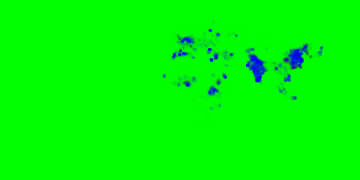
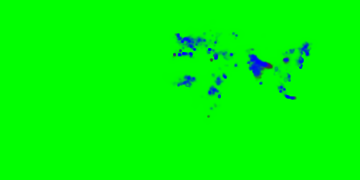
Add simulation speed control and update rendering logic

diff --git a/v-1.0-python/my-react-app/src/components/LiveSim.jsx b/v-1.0-python/my-react-app/src/components/LiveSim.jsx
@@ -7,6 +7,29 @@ import "../CSS/index.css";
 
 const API_BASE_URL = (import.meta.env.VITE_API_BASE_URL || "").replace(/\/$/, "");
 
+function resolveApiBase() {
+    if (API_BASE_URL) return API_BASE_URL;
+    // In Vite dev, backend is proxied under /backend_2.0.
+    if (typeof window !== "undefined" && window.location.port === "5173") {
+        return "/backend_2.0";
+    }
+    return "";
+}
+
+async function postApi(endpoint, body = null) {
+    const base = resolveApiBase();
+    const opts = { method: "POST" };
+    if (body) {
+        opts.headers = { "Content-Type": "application/json" };
+        opts.body = JSON.stringify(body);
+    }
+    const res = await fetch(`${base}${endpoint}`, opts);
+    if (!res.ok) {
+        throw new Error(`POST ${endpoint} failed (${res.status})`);
+    }
+    return await res.json();
+}
+
 // LiveSimNew: variant of LiveSim that uses PNG frames instead of binary frames
 // - Takes the population geotiff file and turns it into a visual (dots are multiplied by population to get size).
 // - Polls a PNG frame (backend_2.0/sim_frame.png) and decodes it to access pixel data
@@ -49,6 +72,7 @@ export default function LiveSim() {
     const [connectionError, setConnectionError] = useState(false);
 
     const [controls, setControls] = useState({
+        simSpeed: 1,
         drawStep: 2,
         globalMultiplier: 1,
         compressExp: 0.7,
@@ -318,6 +342,14 @@ export default function LiveSim() {
         }
     };
 
+    const handleSpeedChange = async (speed) => {
+        try {
+            await postApi("/api/speed", { speed });
+        } catch (err) {
+            console.error("Failed to update simulation speed:", err);
+        }
+    };
+
     // resetView_Controls: restore display-related parameters to sensible defaults (will be fine tuned in the future)
     // Note: we update both UI state and internal refs used by the renderer.
     const resetView_Controls = () => {
@@ -325,6 +357,7 @@ export default function LiveSim() {
         offsetRef.current = { x: 0, y: 0 };
 
         const d = {
+            simSpeed: 1,
             drawStep: 2,
             globalMultiplier: 1,
             compressExp: 0.7,
@@ -340,6 +373,8 @@ export default function LiveSim() {
         percentileCapRef.current = d.percentileCap;
         minRadiusRef.current = d.minRadius;
         maxRadiusRef.current = d.maxRadius;
+
+        handleSpeedChange(d.simSpeed);
     };
 
     // virus handlers: simple setters lifted up so values persist across panel toggles
@@ -418,6 +453,7 @@ export default function LiveSim() {
                             <ScreenControls
                                 values={controls}
                                 onChange={handleControlChange}
+                                onSpeedChange={handleSpeedChange}
                                 onStart={handleStart}
                                 onPause={handlePause}
                                 onScreenReset={resetView_Controls}

diff --git a/v-1.0-python/my-react-app/src/components/ScreenControls.jsx b/v-1.0-python/my-react-app/src/components/ScreenControls.jsx
@@ -4,6 +4,7 @@ export default function ScreenControls(props) {
   const {
     values,
     onChange,
+    onSpeedChange,
     onStart,
     onPause,
     onScreenReset,
@@ -17,6 +18,25 @@ export default function ScreenControls(props) {
   return (
     <div className="controls-panel">
       <h3 className="controls-title">Visual Controls</h3>
+
+      <div className="control-group">
+        <label className="control-label">
+          Sim Speed: {values.simSpeed.toFixed(1)}x
+        </label>
+        <input
+          className="control-slider"
+          type="range"
+          min="0.1"
+          max="10"
+          step="0.1"
+          value={values.simSpeed}
+          onChange={(e) => {
+            const v = num(e.target.value);
+            onChange("simSpeed", v);
+            if (onSpeedChange) onSpeedChange(v);
+          }}
+        />
+      </div>
 
       <div className="control-group">
         <label className="control-label">

diff --git a/v-1.0-python/backend/server.py b/v-1.0-python/backend/server.py
@@ -25,6 +25,10 @@ CORS(app)
 sim = None
 sim_thread = None
 running = False
+sim_speed = 1.0
+tick_budget = 0.0
+last_loop_time = None
+BASE_TPS = 30.0
 
 sim_lock = threading.Lock()
 thread_lock = threading.Lock()
@@ -34,6 +38,7 @@ def _state_summary(sim_obj):
     return {
         'iteration': sim_obj.iter,
         'paused': sim_obj.paused,
+        'speed': sim_speed,
         'totals': {
             'susceptible': float(sim_obj.g.sum()),
             'exposed': float(sim_obj.e.sum()),
@@ -69,19 +74,39 @@ def init_simulation(force=False):
 
 
 def simulation_loop():
+    global tick_budget, last_loop_time
     while running:
         try:
             with sim_lock:
                 if sim and not sim.paused:
-                    sim.run_tick()
+                    now = time.time()
+                    if last_loop_time is None:
+                        last_loop_time = now
+
+                    dt = now - last_loop_time
+                    last_loop_time = now
+
+                    # Avoid a huge catch-up burst after pauses or debugger stops.
+                    dt = max(0.0, min(dt, 0.25))
+
+                    speed_now = max(0.1, float(sim_speed))
+                    tick_budget += dt * BASE_TPS * speed_now
+
+                    # Cap work per loop to keep rendering responsive.
+                    ticks_to_run = min(int(tick_budget), 10)
+                    for _ in range(ticks_to_run):
+                        sim.run_tick()
+                    tick_budget -= ticks_to_run
 
                     # Save frame every 5 iterations for frontend polling.
                     if sim.iter % 5 == 0:
                         sim.save_frame(str(SIM_FRAME_PATH))
+                else:
+                    last_loop_time = time.time()
         except Exception as exc:
             print(f'Error in simulation loop: {exc}')
 
-        time.sleep(0.001)
+        time.sleep(0.005)
 
 
 def ensure_simulation_thread():
@@ -155,6 +180,30 @@ def run_steps():
         summary = _state_summary(sim)
 
     return jsonify({'status': 'ran', 'steps': steps, 'simulation': summary})
+
+
+@app.route('/api/speed', methods=['POST'])
+def set_speed():
+    """Set simulation speed multiplier.
+    1.0 is baseline speed, 2.0 is ~2x faster, 0.5 is ~half speed."""
+    global sim_speed, tick_budget
+    ensure_simulation_thread()
+
+    payload = request.get_json(silent=True) or {}
+    try:
+        new_speed = float(payload.get('speed', 1.0))
+    except (TypeError, ValueError):
+        return jsonify({'error': 'speed must be a number'}), 400
+
+    # Keep speed in a safe range to avoid runaway CPU load.
+    new_speed = max(0.1, min(new_speed, 5.0))
+
+    with sim_lock:
+        sim_speed = new_speed
+        tick_budget = 0.0
+        summary = _state_summary(sim)
+
+    return jsonify({'status': 'speed_updated', 'speed': new_speed, 'simulation': summary})
 
 
 @app.route('/pause', methods=['POST'])
